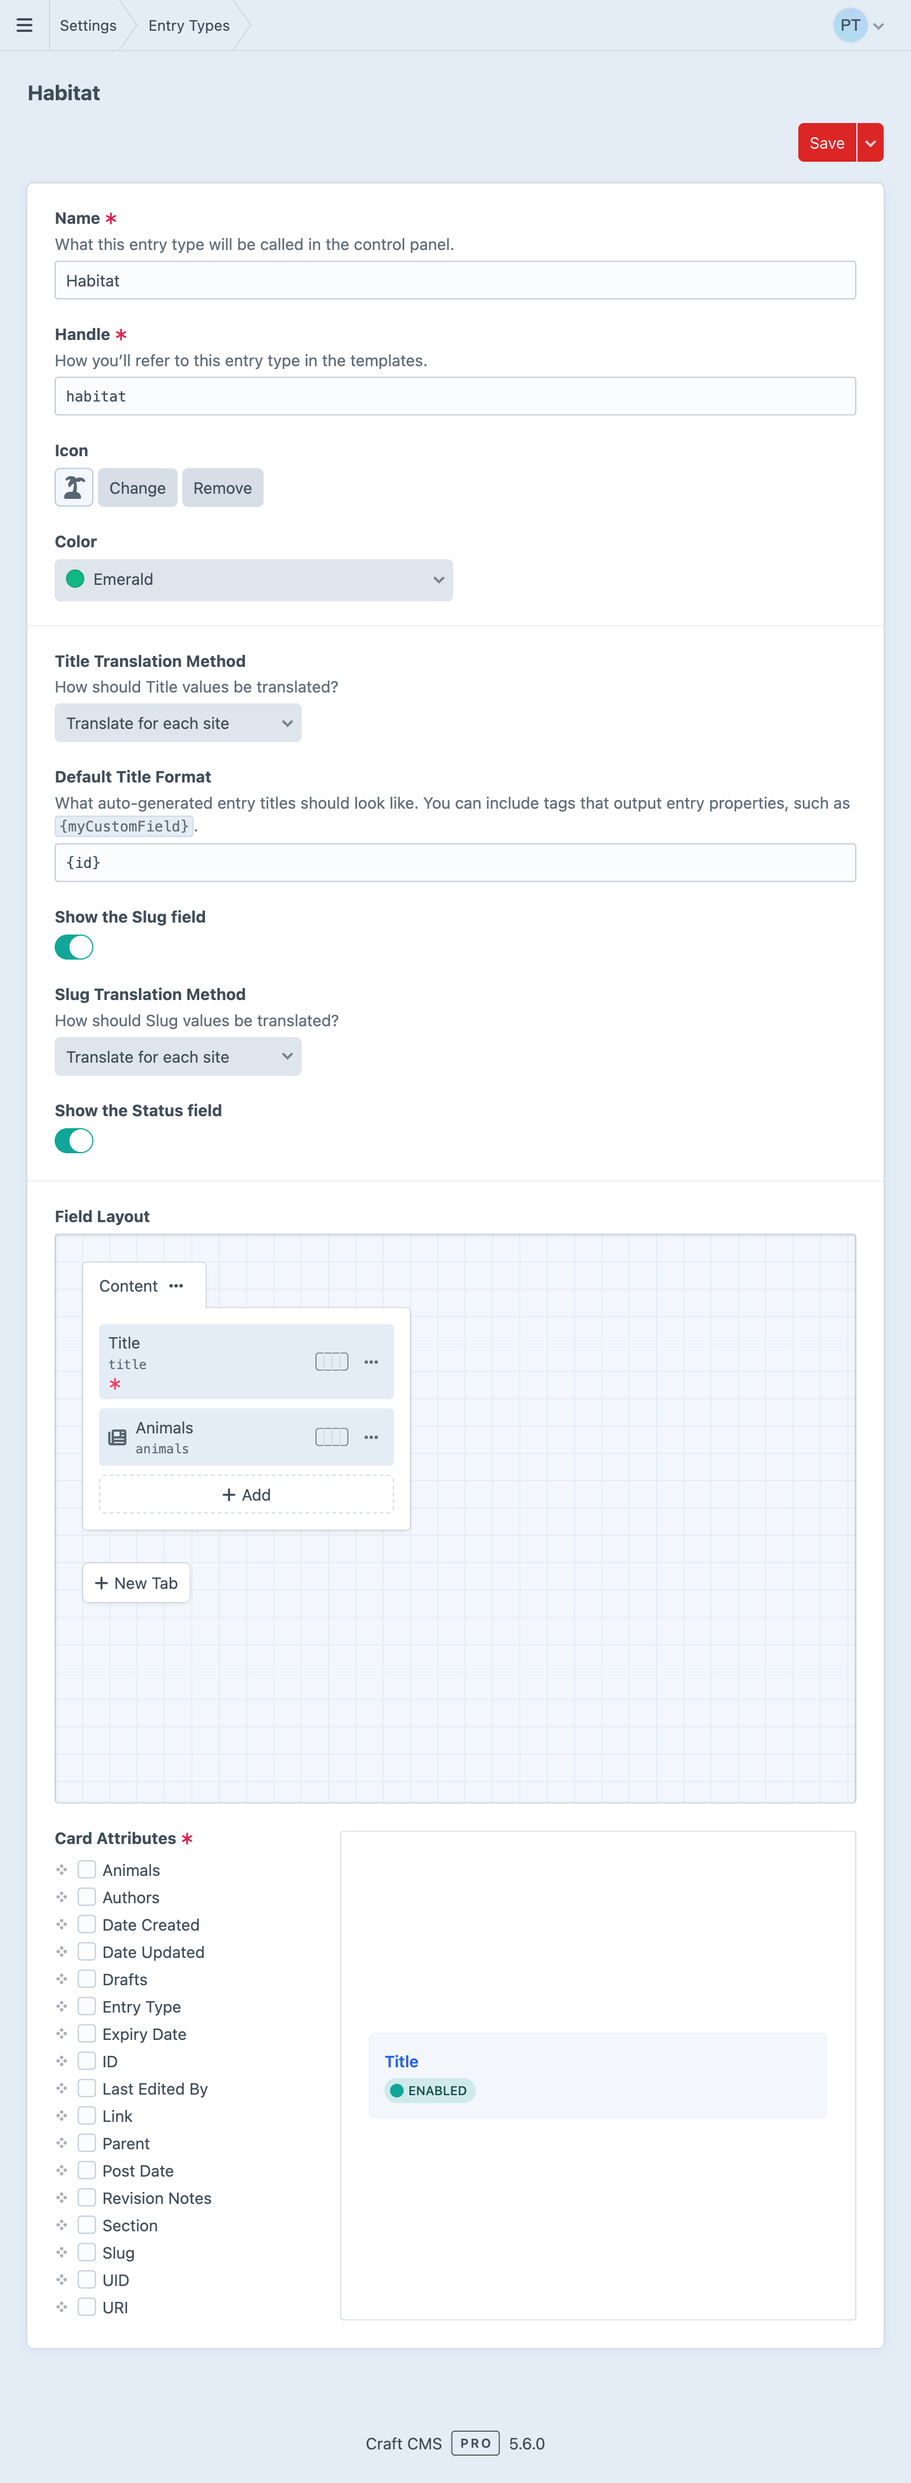
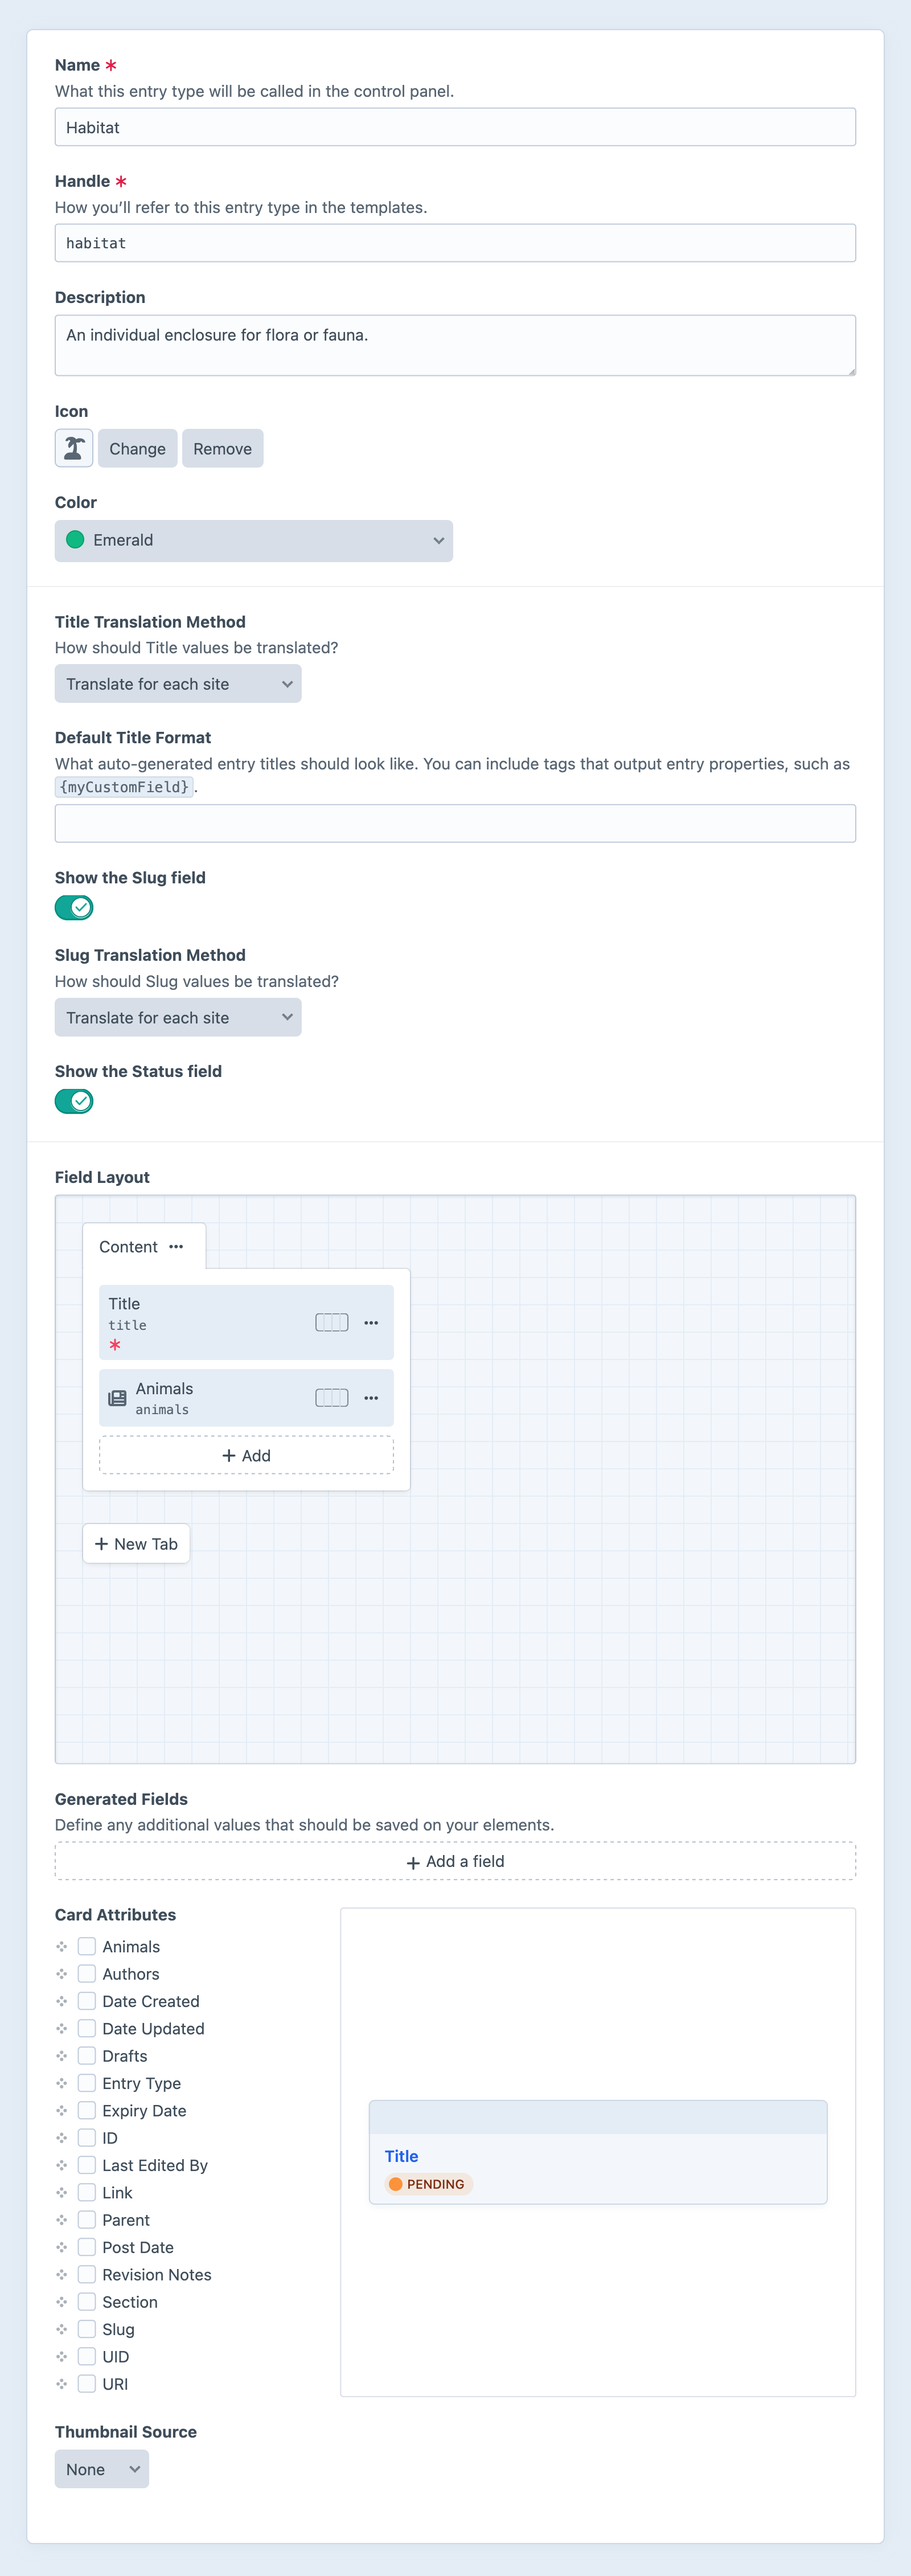
5.8: Entry type descriptions

diff --git a/docs/5.x/reference/element-types/entries.md b/docs/5.x/reference/element-types/entries.md
@@ -43,6 +43,7 @@ Entry types have the following settings:
 
 - **Name** — Used throughout the control panel as a UI label.
 - **Handle** — Uniquely identifies entries of this type in [templates](../../development/templates.md) and [queries](../../development/element-queries.md).
+- **Description** <Since ver="5.8.0" feature="Entry type descriptions" /> — A short explanation of what the entry type is used for. This is displayed in a tooltip when the entry type is selected elsewhere in the control panel.
 - **Icon** and **Color** — Choose a symbol and color to subtly distinguish entries of this type throughout the control panel.
 - **Title Translation Method** — In multi-site projects, choose how titles are localized.
 - **Default Title Format** — Entry titles can be set by the author or [dynamically defined](#dynamic-entry-titles) from other values via an [object template](../../system/object-templates.md).
@@ -50,7 +51,7 @@ Entry types have the following settings:
   - **Slug Translation Method** — In multi-site projects, choose how slugs are localized.
 - **Show the Status field** — Manually set each entry’s status, or allow it to be dictated by its usage.
 - **Field Layout** — Add and arrange [custom fields](../../system/fields.md) to suit your content model.
-- **Generated Fields** — Create additional [virtual attributes](../../system/elements.md#generated-fields) on entries of this type from short [object templates](../../system/object-templates.md).
+- **Generated Fields** <Since ver="5.8.0" feature="Generated fields" /> — Create additional [virtual attributes](../../system/elements.md#generated-fields) on entries of this type from short [object templates](../../system/object-templates.md).
 - **Card Attributes** — Select which attributes and fields appear on [cards](../../system/elements.md#chips-cards) of this type.
 
 When you’re done configuring an entry type, press **Save** or <kbd>Ctrl/Command + S</kbd> to apply the changes.
